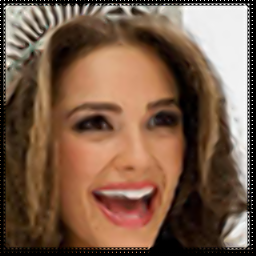
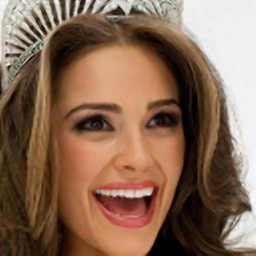
patial padding

diff --git a/python/DCC.py b/python/DCC.py
@@ -61,26 +61,45 @@ def PixelValue(A, type, w, n, f):
         p2 = np.dot(v2, f)
         p = (w[0]*p1+w[1]*p2)/(w[0]+w[1])
     return p
+
+def padding(img, H, W):
+    zimg = np.zeros((H+6,W+6))
+    zimg[3:H+3,3:W+3] = img
+    #Pad the first/last three col and row
+    zimg[3:H+3,1]=img[:,0]
+    zimg[H+3::2,3:W+3]=img[H-2:H-1,:]
+    zimg[3:H+3,W+3::2]=img[:,W-2:W-1]
+    zimg[1,3:W+3]=img[0,:]
+    #Pad the missing nine points
+    zimg[1,1]=img[0,0]
+    zimg[H+3::2,1]=img[H-2,0]
+    zimg[H+3::2,W+3::2]=img[H-2,W-2]
+    zimg[1,W+3::2]=img[0,W-2]
+    return zimg
+
 def _DCC(I, k, T):
     m, n = I.shape
     nRow = 2*m
     nCol = 2*n
     A = np.zeros([nRow, nCol])
     A[0:-1:2, 0:-1:2] = I
+    A = padding(A, nRow, nCol)
     f = np.array([-1, 9, 9, -1])/16
-    for i in range(3,nRow-4,2):
-        for j in range(3,nCol-4,2):
+    for i in range(4,nRow+3,2):
+        for j in range(4,nCol+3,2):
             [w,n] = DetectDirect(A[i-3:i+4,j-3:j+4],1,k,T)
             A[i,j] = PixelValue(A[i-3:i+4,j-3:j+4],1,w,n,f)
-    for i in range(4,nRow-5,2):
-        for j in range(3,nCol-4,2):
+    for i in range(3,nRow+3,2):
+        for j in range(4,nCol+3,2):
             [w,n] = DetectDirect(A[i-2:i+3,j-2:j+3],2,k,T)
             A[i,j] = PixelValue(A[i-3:i+4,j-3:j+4],2,w,n,f)
-    for i in range(3,nRow-4,2):
-        for j in range(4,nCol-5,2):
+    for i in range(4,nRow+3,2):
+        for j in range(3,nCol+3,2):
             [w,n] = DetectDirect(A[i-2:i+3,j-2:j+3],3,k,T)
             A[i,j] = PixelValue(A[i-3:i+4,j-3:j+4],3,w,n,f)
-    return A                
+    return A[3:-3,3:-3]                
+    # return A 
+
 
 # uniform format image
 def numpy2img(img, out_type=np.uint8, min_max=(0, 1)):
@@ -143,7 +162,7 @@ if __name__ == '__main__':
                         default='./data/hr')
     parser.add_argument('--out', '-o', type=str, default='./data/sr')
 
-    parser.add_argument('--level', type=int, default=2)
+    parser.add_argument('--level', type=int, default=1)
     parser.add_argument('--n_worker', type=int, default=8)
 
     args = parser.parse_args()

diff --git a/README.md b/README.md
@@ -16,8 +16,9 @@ images with noticeable suppression of the artifacts that usually occur with cubi
 Compared to the open source MATLAB version, we are ready to do the following :
 
 -   [x] Python Version
--   [x] Support RGB Image 
--   [ ] Eliminate edge black point
+-   [x] RGB Image support 
+-   [x] MultiProcessing support
+-   [ ] Eliminate edge white points
 
 
 
